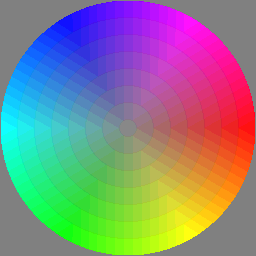
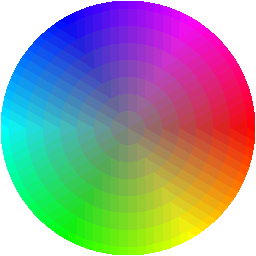
Added Ceiling Bias
Added a bias to color calculation so that expansion and contraction are closer to ceil than floor. This changes table values. Updated color wheel to have alpha at edges and to calculate gray once per frame loop.

Changed region(s): [[0.0, 0.0, 1.0, 1.0]]

diff --git a/README.md b/README.md
@@ -34,9 +34,9 @@ I am still researching the proper expansions from low bit to standard RGB. The t
 
 ![Bit 2](bit2.png)
 
-[https://en.wikipedia.org/wiki/List_of_monochrome_and_RGB_color_formats?oldformat=true#6-bit_RGB](https://en.wikipedia.org/wiki/List_of_monochrome_and_RGB_color_formats?oldformat=true#6-bit_RGB)*
+[https://en.wikipedia.org/wiki/List_of_monochrome_and_RGB_color_formats#6-bit_RGB](https://en.wikipedia.org/wiki/List_of_monochrome_and_RGB_color_formats#6-bit_RGB)*
 
-Step|Decimal|Hex
+Step|Decimal|Hex|
 ---:|------:|--:|
 0|0|00
 1|85|55
@@ -50,25 +50,25 @@ Step|Decimal|Hex
 
 ![Bit 3](bit3.png)
 
-[https://en.wikipedia.org/wiki/List_of_monochrome_and_RGB_color_formats?oldformat=true#9-bit_RGB](https://en.wikipedia.org/wiki/List_of_monochrome_and_RGB_color_formats?oldformat=true#9-bit_RGB)
+[https://en.wikipedia.org/wiki/List_of_monochrome_and_RGB_color_formats#9-bit_RGB](https://en.wikipedia.org/wiki/List_of_monochrome_and_RGB_color_formats#9-bit_RGB)
 
 Step|Decimal|Hex|Diff|
 ---:|------:|--:|---:|
 0|0|00|
 1|36|24|36
-2|72|48|36
-3|109|6D|37
-4|145|91|36
-5|182|B6|37
-6|218|DA|36
-7|255|FF|37
+2|73|49|37
+3|109|6D|36
+4|146|92|37
+5|182|B6|36
+6|219|DB|37
+7|255|FF|36
 
 ## Four Bits
 `2 ^ 4 = 16`, `1 << 4 = 16`, `255 / (16 - 1) = 17`
 
 ![Bit 4](bit4.png)
 
-[https://en.wikipedia.org/wiki/List_of_monochrome_and_RGB_color_formats?oldformat=true#12-bit_RGB](https://en.wikipedia.org/wiki/List_of_monochrome_and_RGB_color_formats?oldformat=true#12-bit_RGB)
+[https://en.wikipedia.org/wiki/List_of_monochrome_and_RGB_color_formats#12-bit_RGB](https://en.wikipedia.org/wiki/List_of_monochrome_and_RGB_color_formats#12-bit_RGB)
 
 Step|Decimal|Hex|
 ---:|------:|--:|
@@ -94,42 +94,42 @@ Step|Decimal|Hex|
 
 ![Bit 5](bit5.png)
 
-[https://en.wikipedia.org/wiki/List_of_monochrome_and_RGB_color_formats?oldformat=true#15-bit_RGB](https://en.wikipedia.org/wiki/List_of_monochrome_and_RGB_color_formats?oldformat=true#15-bit_RGB)*
+[https://en.wikipedia.org/wiki/List_of_monochrome_and_RGB_color_formats#15-bit_RGB](https://en.wikipedia.org/wiki/List_of_monochrome_and_RGB_color_formats#15-bit_RGB)*
 
 Step|Decimal|Hex|Diff|
 ---:|------:|--:|---:|
 0|0|00|
 1|8|08|8
 2|16|10|8
-3|24|18|8
-4|32|20|8
-5|41|29|9
+3|25|19|9
+4|33|21|8
+5|41|29|8
 6|49|31|8
-7|57|39|8
-8|65|41|8
-9|74|4A|9
+7|58|3A|9
+8|66|42|8
+9|74|4A|8
 10|82|52|8
 11|90|5A|8
-12|98|62|8
-13|106|6A|8
-14|115|73|9
+12|99|63|9
+13|107|6B|8
+14|115|73|8
 15|123|7B|8
-16|131|83|8
-17|139|8B|8
-18|148|94|9
+16|132|84|9
+17|140|8C|8
+18|148|94|8
 19|156|9C|8
-20|164|A4|8
-21|172|AC|8
-22|180|B4|8
-23|189|BD|9
+20|165|A5|9
+21|173|AD|8
+22|181|B5|8
+23|189|BD|8
 24|197|C5|8
-25|205|CD|8
-26|213|D5|8
-27|222|DE|9
+25|206|CE|9
+26|214|D6|8
+27|222|DE|8
 28|230|E6|8
-29|238|EE|8
-30|246|F6|8
-31|255|FF|9
+29|239|EF|9
+30|247|F7|8
+31|255|FF|8
 
 *There are numerous discrepancies between the refactor, the original fast bit script and the Wikipedia reference. A formula specific to the SNES palette can be found at [https://wiki.superfamicom.org/palettes](https://wiki.superfamicom.org/palettes).
 
@@ -138,7 +138,7 @@ Step|Decimal|Hex|Diff|
 
 ![Bit 6](bit6.png)
 
-[https://en.wikipedia.org/wiki/List_of_monochrome_and_RGB_color_formats?oldformat=true#18-bit_RGB](https://en.wikipedia.org/wiki/List_of_monochrome_and_RGB_color_formats?oldformat=true#18-bit_RGB)
+[https://en.wikipedia.org/wiki/List_of_monochrome_and_RGB_color_formats#18-bit_RGB](https://en.wikipedia.org/wiki/List_of_monochrome_and_RGB_color_formats#18-bit_RGB)
 
 Step|Decimal|Hex|Diff|
 ---:|------:|--:|---:|
@@ -153,17 +153,17 @@ Step|Decimal|Hex|Diff|
 8|32|20|4
 9|36|24|4
 10|40|28|4
-11|44|2C|4
-12|48|30|4
-13|52|34|4
-14|56|38|4
-15|60|3C|4
-16|64|40|4
-17|68|44|4
-18|72|48|4
-19|76|4C|4
-20|80|50|4
-21|85|55|5
+11|45|2D|5
+12|49|31|4
+13|53|35|4
+14|57|39|4
+15|61|3D|4
+16|65|41|4
+17|69|45|4
+18|73|49|4
+19|77|4D|4
+20|81|51|4
+21|85|55|4
 22|89|59|4
 23|93|5D|4
 24|97|61|4
@@ -174,17 +174,17 @@ Step|Decimal|Hex|Diff|
 29|117|75|4
 30|121|79|4
 31|125|7D|4
-32|129|81|4
-33|133|85|4
-34|137|89|4
-35|141|8D|4
-36|145|91|4
-37|149|95|4
-38|153|99|4
-39|157|9D|4
-40|161|A1|4
-41|165|A5|4
-42|170|AA|5
+32|130|82|5
+33|134|86|4
+34|138|8A|4
+35|142|8E|4
+36|146|92|4
+37|150|96|4
+38|154|9A|4
+39|158|9E|4
+40|162|A2|4
+41|166|A6|4
+42|170|AA|4
 43|174|AE|4
 44|178|B2|4
 45|182|B6|4
@@ -195,14 +195,14 @@ Step|Decimal|Hex|Diff|
 50|202|CA|4
 51|206|CE|4
 52|210|D2|4
-53|214|D6|4
-54|218|DA|4
-55|222|DE|4
-56|226|E2|4
-57|230|E6|4
-58|234|EA|4
-59|238|EE|4
-60|242|F2|4
-61|246|F6|4
-62|250|FA|4
-63|255|FF|5
+53|215|D7|5
+54|219|DB|4
+55|223|DF|4
+56|227|E3|4
+57|231|E7|4
+58|235|EB|4
+59|239|EF|4
+60|243|F3|4
+61|247|F7|4
+62|251|FB|4
+63|255|FF|4
